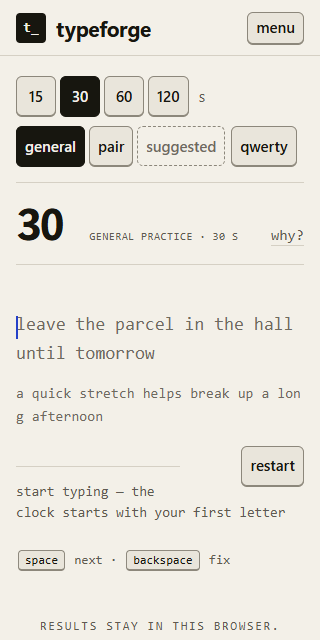
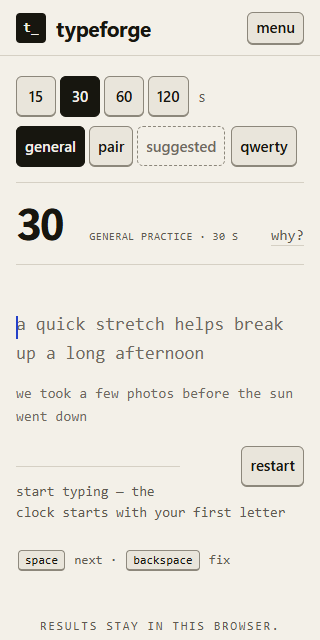
docs(direct-practice): lead final acceptance at db56cf0 after verified L-1
Rebuilt 932f000 independently (same asset hashes, 132/132); 0/25 split context-line
words at 390 and 320 with the active line unmoved; remaining limits recorded.

diff --git a/docs/implementation/2026-11-15/direct-practice/lead-review.md b/docs/implementation/2026-11-15/direct-practice/lead-review.md
@@ -4,7 +4,7 @@
 
 **Reviewed:** T4 frozen at `0747d17` on `OwenC05/tf-direct-practice`. Final source is `1e29064`. `git diff --quiet 1e29064 0747d17 -- typing-app/client/src` holds.
 
-**Verdict:** accepted with one required presentation fix, **L-1**. Everything else in the brief's completion list is met or honestly limited. Final acceptance follows once L-1 lands and is verified.
+**Verdict:** accepted at **`db56cf0`** (final source `932f000`) after the one required presentation fix, **L-1**, landed and was independently verified (see Final acceptance). Previously: accepted at `0747d17` except L-1.
 
 ## Method
 
@@ -113,3 +113,54 @@ This is a CSS-only delta after `1e29064`.
 
 - Lead preview on port 5303 is stopped after review (PID recorded in the scratchpad).
 - Lead profiles `dp-lead-*` remain in the lead scratchpad. Cleanup is optional, so I left them rather than run an unverified deletion.
+
+## Final acceptance (L-1 delta)
+
+**Commits.** T4 follow-up (Task `task_99e9239f71f9`, Dispatch `ctx_a83524e4db81`): `932f000` (CSS) and `db56cf0` (evidence).
+
+**Delta.** `git diff 0747d17 932f000` touches only `typing-app/client/src/style.css`:
+
+- `.passage-context` leaves the editor's break-all selector.
+- It gets `pre-wrap` / `word-break: normal` / `overflow-wrap: break-word`, with the same mono metrics.
+- The editor rule (`.prompt`, `.typing-input`) is unchanged.
+
+Client source is identical between `932f000` and `db56cf0`.
+
+**Independent rebuild.** Lead scratchpad, final `style.css`:
+
+- `npm run check`: **132/132**.
+- Build: `app-BNPI8kHH.js` and `app-ChsJ1aui.css`, the same as T4's receipt. The JS name changed only because Vite's chunk hash includes the CSS.
+
+**Measured on that build** (`scripts/ctx-wrap.mjs`, same 25 seeds, real time):
+
+| Width | Split words in upcoming line | Active-line top | Overflow | Page errors |
+|---|---|---|---|---|
+| 390 | **0 / 25** | 317 px, unchanged | none | 0 |
+| 320 | **0 / 25** | 310 px, unchanged | none | 0 |
+
+- Clean first visit at 390 and 320 is still ready, focused, 30 s General, with 0 errors.
+- The first key starts the run.
+
+Captures: `final-ctxwrap-390.png`, `final-ctxwrap-320.png`.
+
+**Accepted from T4's receipts on `932f000`** (not rerun by the lead):
+
+- geometry identical to `1e29064` (zero displacement, every slot message fits);
+- 57 state captures;
+- typing-flow 46/46, unsaved 74/74, agent 50/50;
+- zoom ok;
+- visual receipt and helper ok, 55 files;
+- +17 B gzip CSS.
+
+Retry-race, late-history and timing are labelled historical against their own builds. The only source change since then is the context-line CSS, which is outside their paths.
+
+**Remaining honest limits:**
+
+- The active line still breaks mid-word at narrow widths. This is the measured native-editing limit.
+- Unsaved-result recovery is in-memory only: it does not survive reload, tab close or BFCache.
+- 200% zoom on a short window puts restart and the slot below the fold.
+- The bundle grows by +33.5 KB gzip initial.
+- Timing evidence is bounded: headless, single host.
+- Not covered: OS IME, screen readers and AT, Firefox and Safari, physical devices, human typing.
+
+None of these is claimed as passed.
